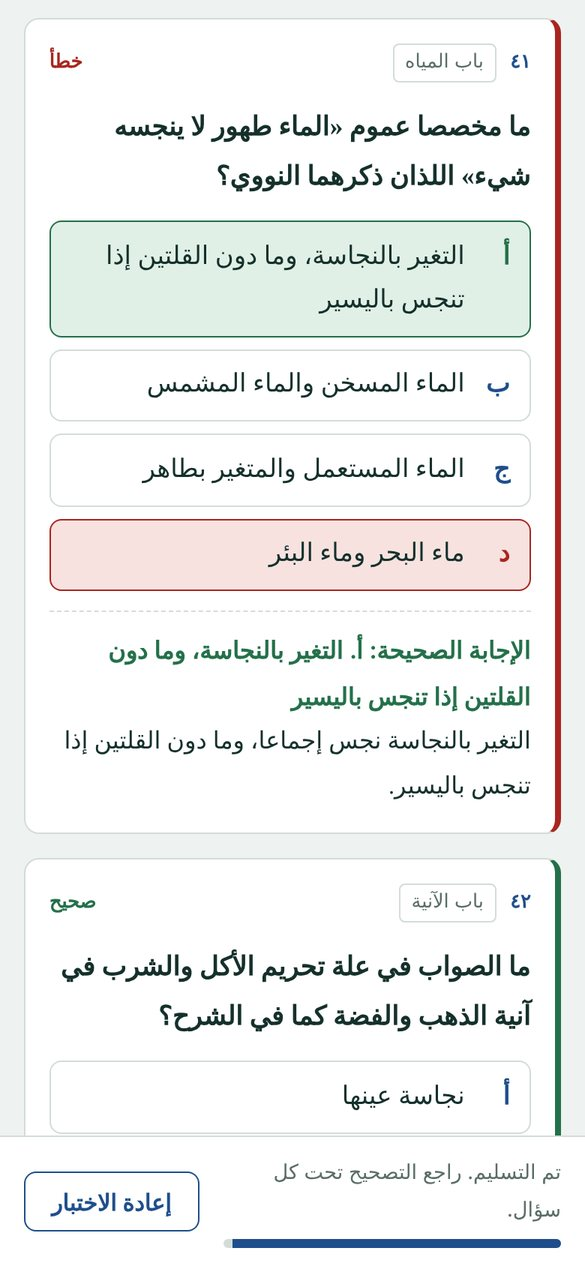
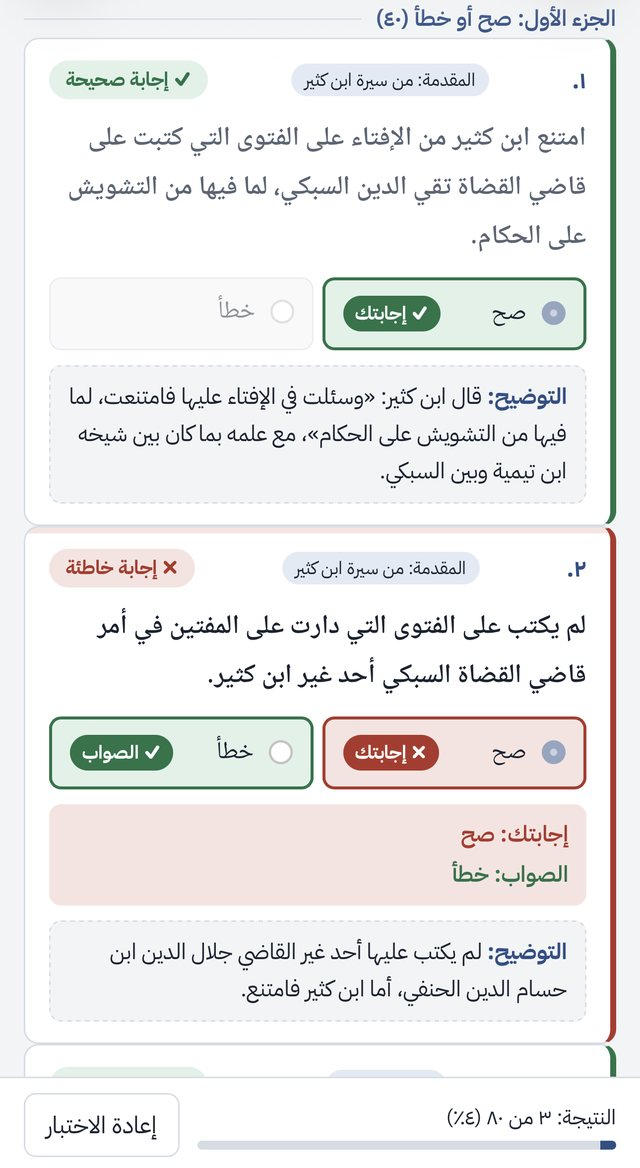
Exam maker: use the owner's own iPhone screenshots
Claude-Session: https://claude.ai/code/session_01Lt65LqLbcnzE6NJV8LXZgX

diff --git a/content/posts/study/exam-maker.md b/content/posts/study/exam-maker.md
@@ -8,7 +8,7 @@ tags: [ai, prompt, exam, test, practice exam, quiz, true false, multiple choice,
 ---
 Use this in **Claude**. It builds the exam as a page with its own link that you can take on your phone and share with classmates. It hasn't been tested on Gemini or ChatGPT.
 
-<figure class="showcase showcase-pair"><div class="shots"><a href="/assets/img/study/exam-results.jpg" target="_blank" rel="noopener"><img src="/assets/img/study/exam-results.jpg" width="585" height="1266" alt="Results after submitting a practice exam: score 74 out of 80, 93 percent, with separate scores for true/false and multiple choice, the number wrong and unanswered, and a button to show mistakes only." loading="lazy"></a><a href="/assets/img/study/exam-explanation.jpg" target="_blank" rel="noopener"><img src="/assets/img/study/exam-explanation.jpg" width="585" height="1266" alt="A corrected multiple-choice question: the wrong choice is marked in red, the right one in green, and an explanation from the book appears underneath." loading="lazy"></a></div><figcaption><b>What you get:</b> an 80-question practice exam on Bulugh al-Maram, made with this prompt. After you submit, you see your score by section (left), and every question shows the right answer and an explanation from the book (right). Tap to enlarge.</figcaption></figure>
+<figure class="showcase showcase-pair"><div class="shots"><a href="/assets/img/study/exam-results.jpg" target="_blank" rel="noopener"><img src="/assets/img/study/exam-results.jpg" width="624" height="1130" alt="Results of an 80-question practice exam on Umdat al-Tafsir: the overall score, how many were right, wrong and unanswered, and a score for each section of the material." loading="lazy"></a><a href="/assets/img/study/exam-explanation.jpg" target="_blank" rel="noopener"><img src="/assets/img/study/exam-explanation.jpg" width="640" height="1168" alt="Two corrected true/false questions: one marked correct, one marked wrong with the right answer highlighted, each with an explanation from the book." loading="lazy"></a></div><figcaption><b>What you get:</b> an 80-question practice exam on Umdat al-Tafsir, made with this prompt. After you submit, you see your score with a breakdown by section, so you know which parts to revise (left), and every question shows your answer, the right one and an explanation from the book (right). Tap to enlarge.</figcaption></figure>
 
 ````prompt Exam maker
 Build me an online practice exam as a single published HTML page (artifact).
